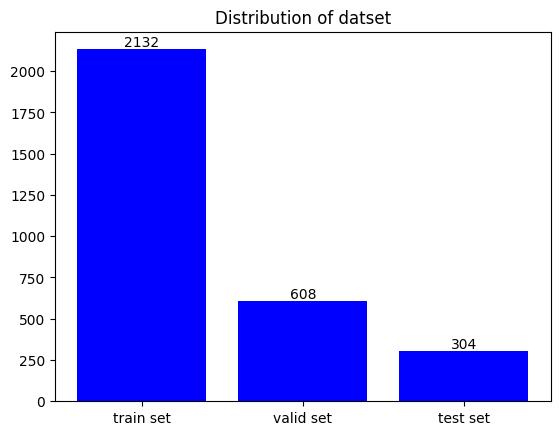
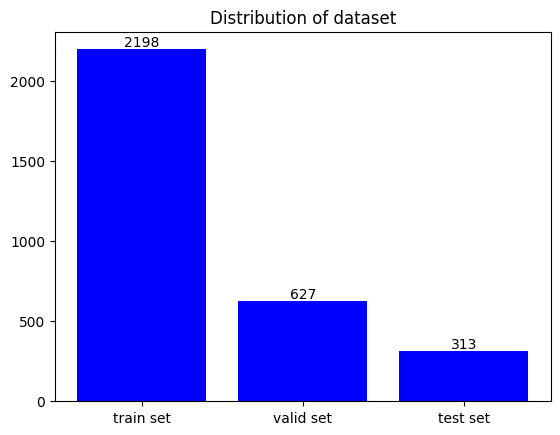
updated graphs

diff --git a/unannotated_auto_enc.py b/unannotated_auto_enc.py
@@ -120,7 +120,7 @@ ind = np.arange(len(y_nmrs))  # the x locations for the groups
 bars = ax.bar(ind, y_nmrs, color="blue")
 ax.set_xticks(ind)
 ax.set_xticklabels(x_lbs, minor=False)
-plt.title('Distribution of datset')
+plt.title('Distribution of dataset')
 # plt.xlabel('x')
 # plt.ylabel('y')
 ax.bar_label(bars)
